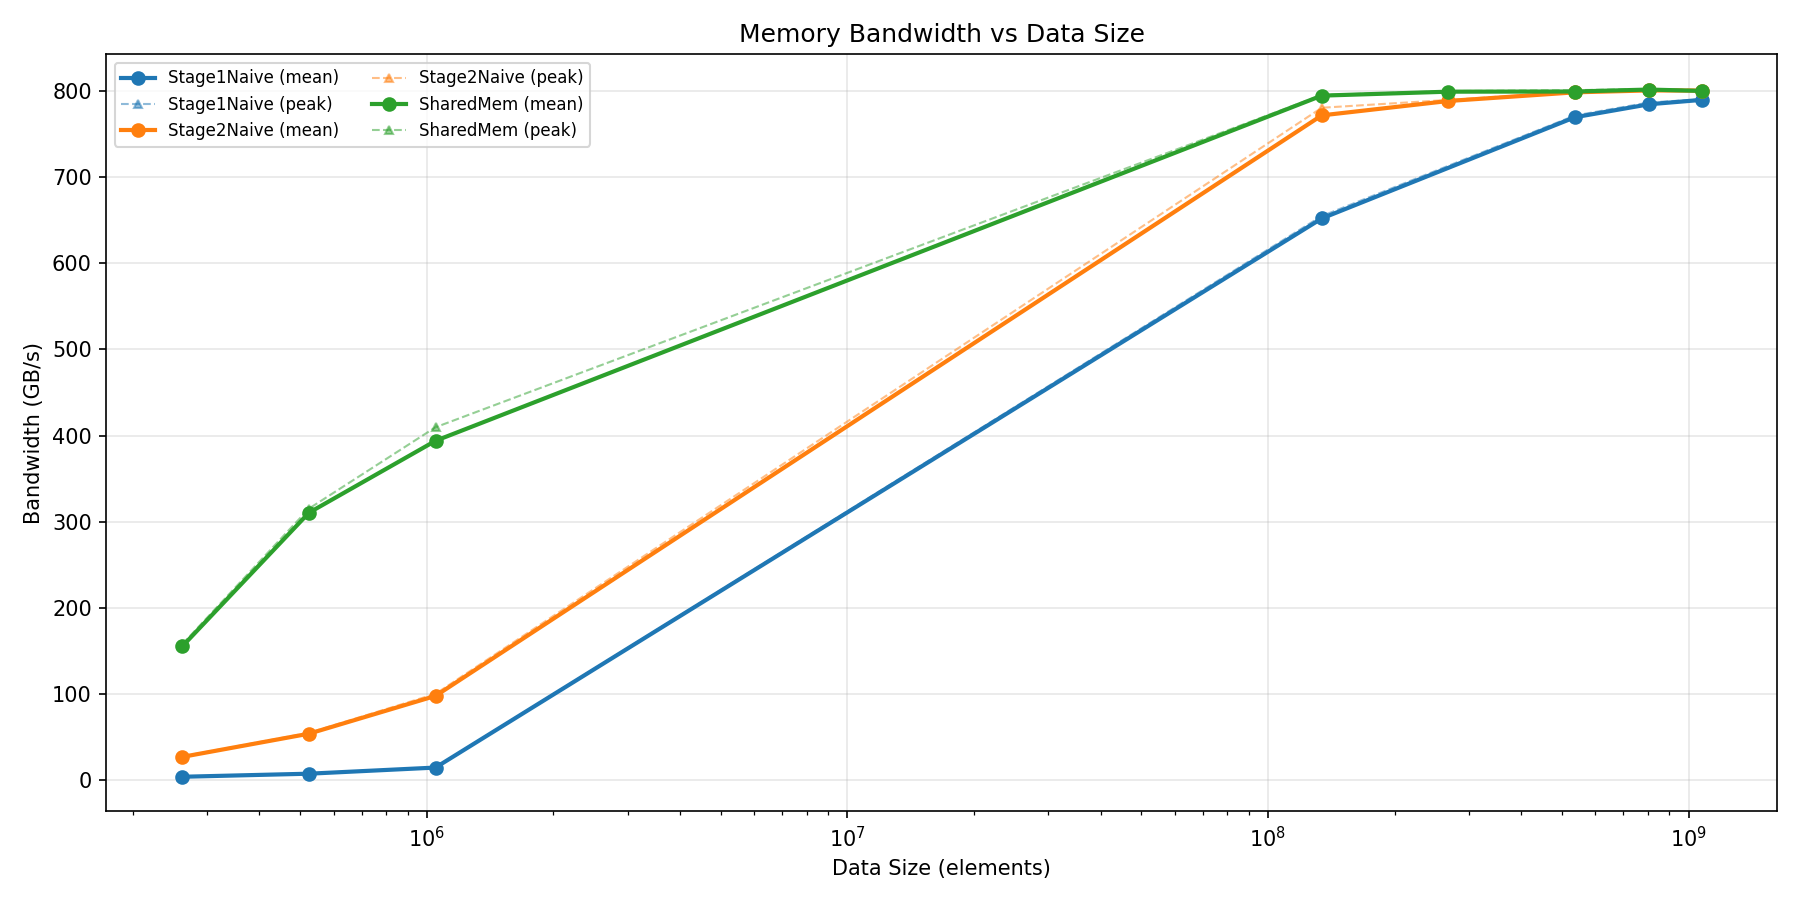
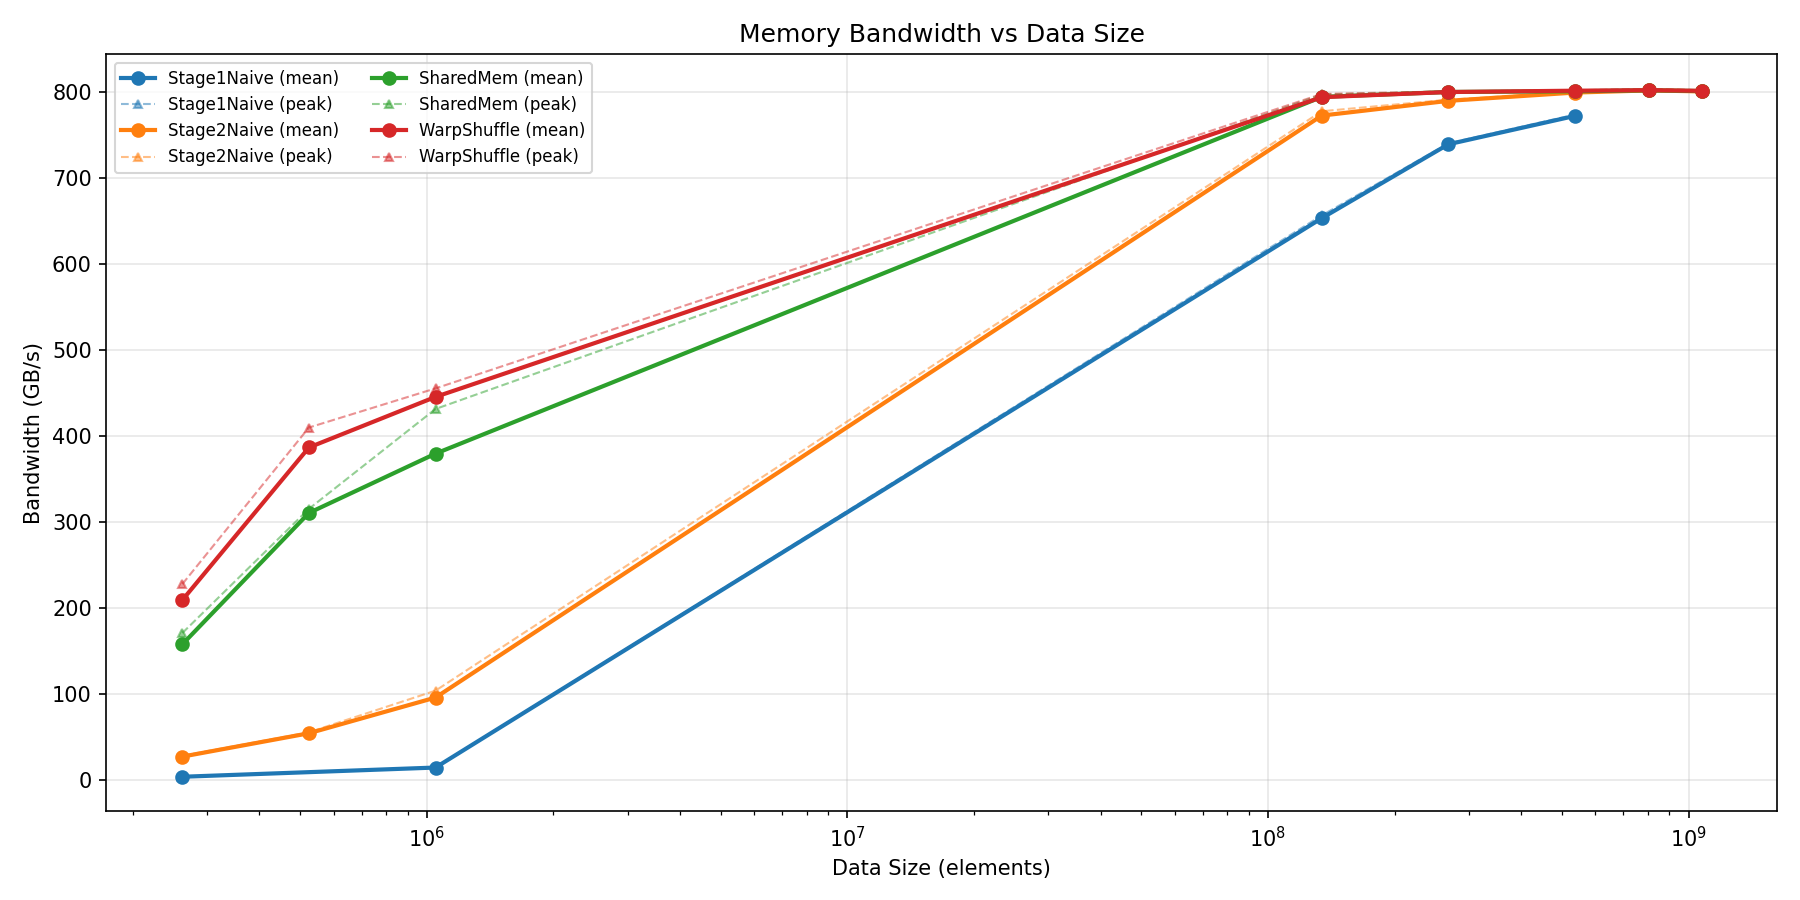
update README.md

diff --git a/problems/dot-product/README.md b/problems/dot-product/README.md
@@ -14,7 +14,7 @@ $$
 | Stage1Navive | Single-stage atomic reduction | Global atomic (high contention) | Baseline (worst) | Implementated |
 | Stage2Naive | Two-stage with per-block atomics | Atomic per block | Better | Implemented |
 | SharedMem | Two-stage with shared memory reduction | Shared memory + tree reduction | Best | Implemented |
-| WarpShuffle | Warp-level primitives | Warp shuffle instructions | Future optimization | TODO |
+| WarpShuffle | Warp-level primitives | Warp shuffle instructions | Future optimization | Implemented |
 
 ## Kernel Descriptions
 
@@ -26,7 +26,7 @@ $$
 - each thread compute partial sum
 - all threads atomically add their result to a single global `result` variable
 
-**Code Pattern**:
+**Code**:
 
 ```cuda
 
@@ -56,6 +56,81 @@ The dot-product is a **reduction problem**: many inputs -> single output. Naive 
 
 ![alt text](kernel.png)
 
+## Code Pattern
+
+### Grid-stride loop
+
+All kernels use the grid-stride loop for robustness:
+
+```cuda
+int idx = blockIdx.x * blockDim.x + threadIdx.x;
+int stride = gridDim.x * blockDim.x;
+for (int i = idx; i < N; i += stride) {
+    // process element i ...
+}
+
+```
+
+**Benefits**:
+
+- handles any n size, regardless of grid dimensions
+- load balancing: distributes work evenly when n is not divisible by grid size
+- allows limiting grid size while processing billions of elements
+
+### Two-stage reduction
+
+Stage 1:
+  Input: vectors a[n], b[n]
+  Output: partialSum[numBlocks] // one value per block
+
+Stage 2:
+  Input: partialSum[numBlocks]
+  Output: result // single scalar
+
+**Why two stages?**:
+
+- avoid requiring all blocks to fit in GPU simultaneously
+- allow processing datasets larger than GPU memory
+- second stage has minimal cost (only 1024 elements max)
+
+## Building and Running
+
+### Build
+
+```bash
+    # From project root
+    mkdir -p build && cd build
+    cmake ..
+    cmake --build . --target dot-product
+```
+
+### Run benchmark
+
+```bash
+    ./bin/dot-product
+```
+
+**Output**: CSV file dot_product_benchmark.csv with timing statistics
+
+### Run tests
+
+```bash
+    ctest -R dot-product
+```
+
+### Visualize Results
+
+```bash
+python scripts/analyze_benchmark.py dot_product_benchmark.csv
+```
+
+**Generates plots**:
+
+- bandwidth_vs_size.png: Bandwidth scaling across data sizes
+- kernel_comparison.png: Execution time comparison with error bars
+- speedup_comparison.png: Relative speedup vs baseline
+- variance_analysis.png: Timing consistency (cofficient of variation)
+
 ## Performance
 
 **Test Configuration**:
@@ -69,3 +144,11 @@ The dot-product is a **reduction problem**: many inputs -> single output. Naive 
 
 **Bandwidth**:
 ![alt text](bandwidth.png)
+
+**Precision Considerations**:
+
+- CPU reference uses `double` accumulation for higher precision
+- GPU kernels use `float` with epsilon tolerance: 1e-5
+- **Large datasets**: Floating-point accumulation order can cause slight differences
+  - Atomic operations have non-deterministic ordering
+  - Relative error remains acceptable (<1e-5) for most use case
